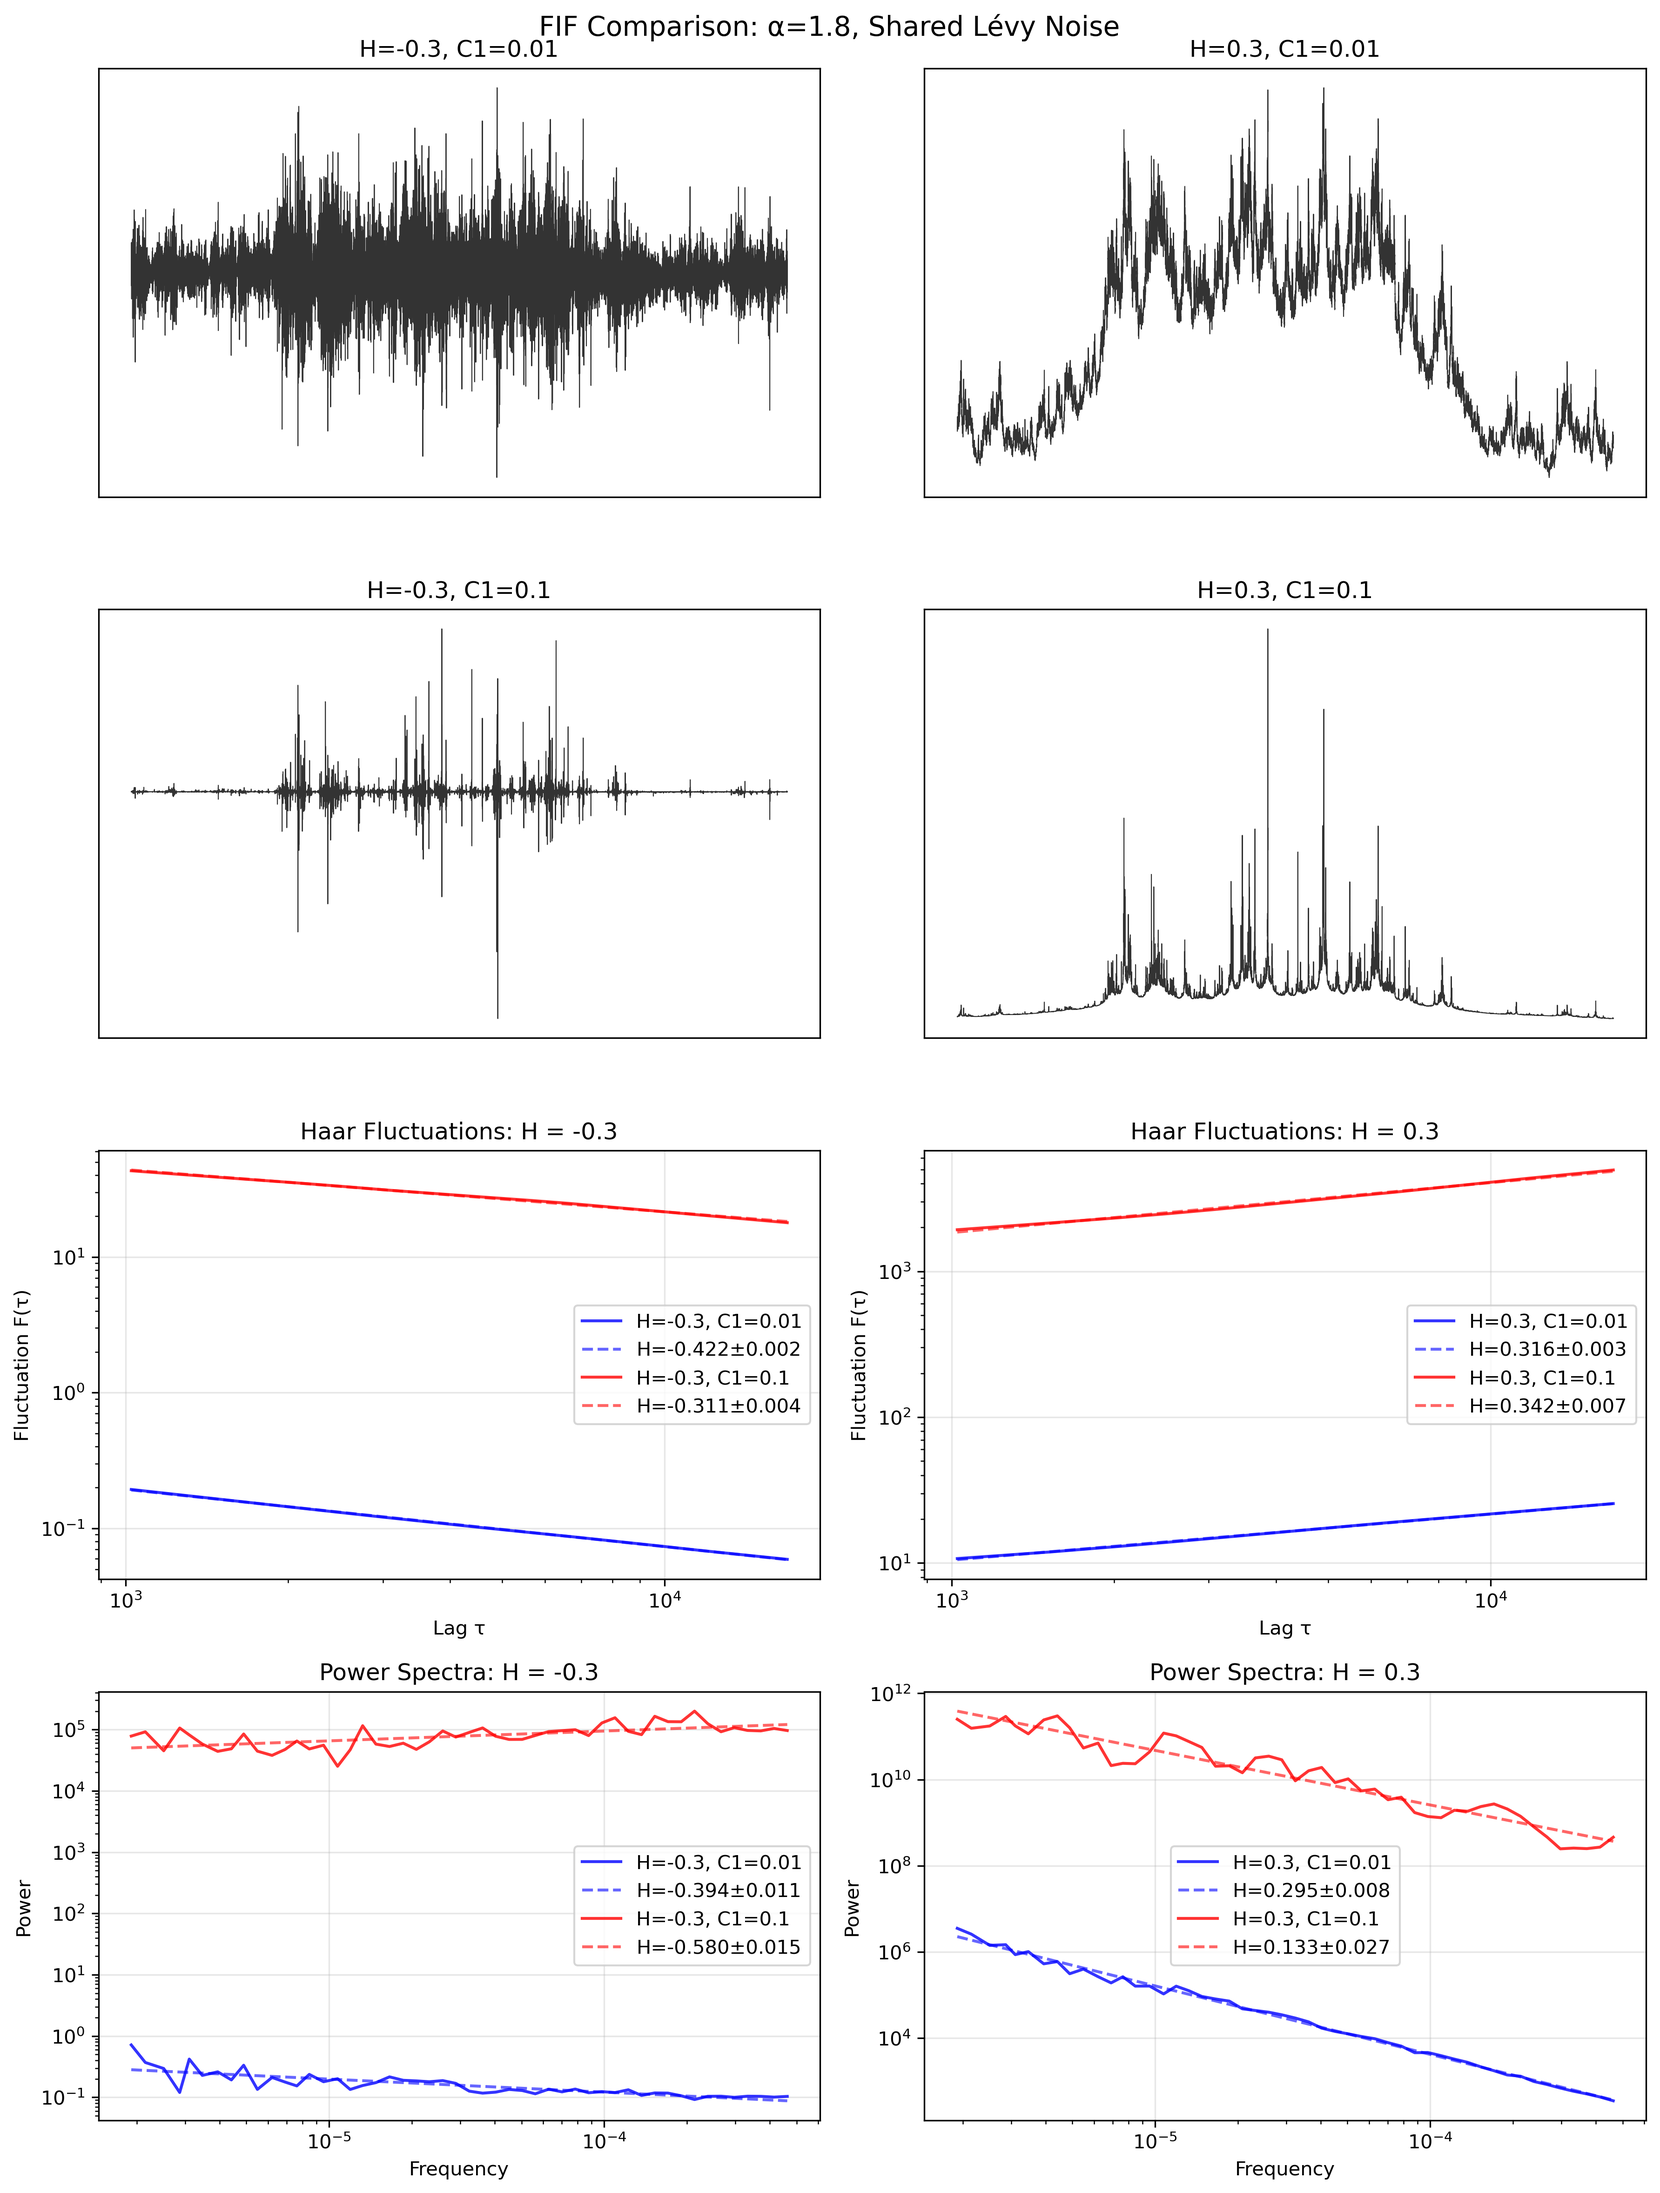
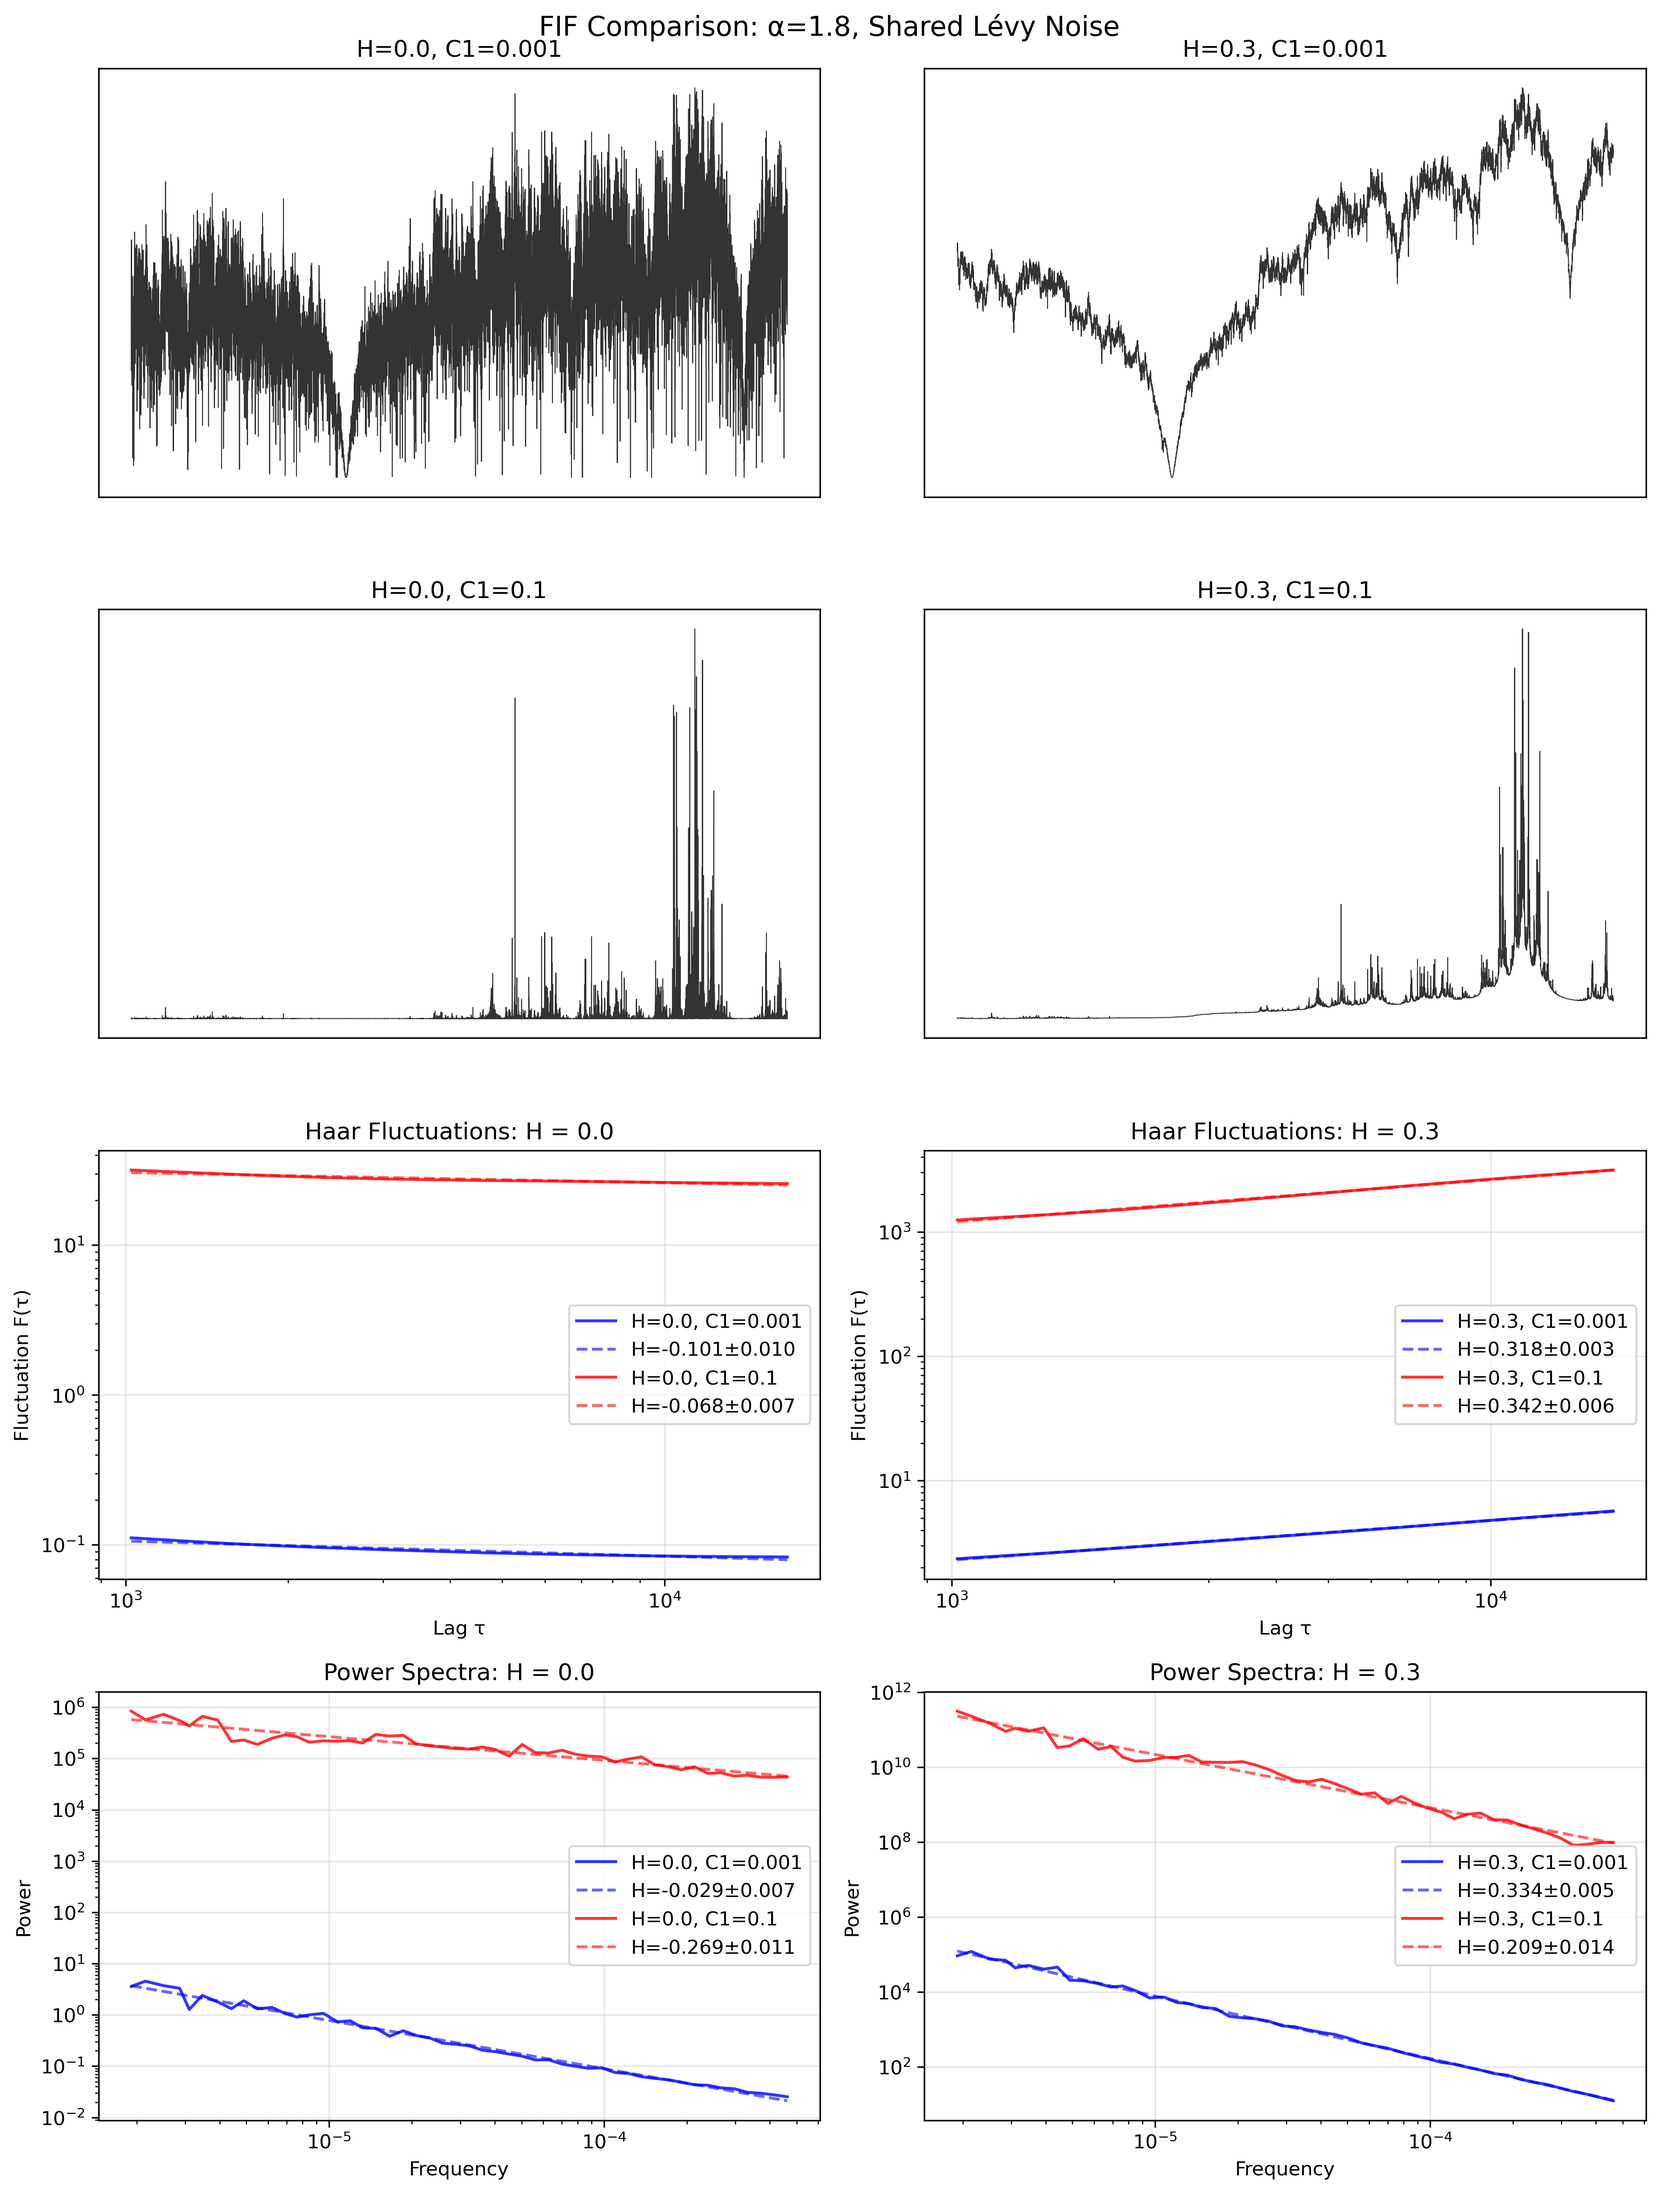
Add 1D fractionally integrated flux (FIF) and update examples
- Implement FIF_1D function for generating multifractal timeseries
- Update FIF comparison demo with improved parameter choices and analysis
- Enhanced README documentation with updated example output
- Version bump to 0.2.0

🤖 Generated with [Claude Code](https://claude.ai/code)

diff --git a/examples/fif_comparison_demo.py b/examples/fif_comparison_demo.py
@@ -26,9 +26,9 @@ def main():
     
     # Create 4 simulations with same noise, different parameters
     params = [
-        (-0.3, 0.01, 'H=-0.3, C1=0.01'),
-        (-0.3, 0.1, 'H=-0.3, C1=0.1'), 
-        (0.3, 0.01, 'H=0.3, C1=0.01'),
+        (0.0, 0.001, 'H=0.0, C1=0.001'),
+        (0.0, 0.1, 'H=0.0, C1=0.1'), 
+        (0.3, 0.001, 'H=0.3, C1=0.001'),
         (0.3, 0.1, 'H=0.3, C1=0.1')
     ]
     
@@ -42,30 +42,30 @@ def main():
     # Create figure with subplots - 4 time series plots + 4 analysis plots
     fig = plt.figure(figsize=(12, 16))
     
-    # Top 2x2: Individual FIF time series plots (H=-0.3 left, H=0.3 right)
-    ax1 = plt.subplot(4, 2, 1)  # H=-0.3, C1=0.01
-    ax2 = plt.subplot(4, 2, 2)  # H=0.3, C1=0.01
-    ax3 = plt.subplot(4, 2, 3)  # H=-0.3, C1=0.1
+    # Top 2x2: Individual FIF time series plots (H=0.0 left, H=0.3 right)
+    ax1 = plt.subplot(4, 2, 1)  # H=0.0, C1=0.001
+    ax2 = plt.subplot(4, 2, 2)  # H=0.3, C1=0.001
+    ax3 = plt.subplot(4, 2, 3)  # H=0.0, C1=0.1
     ax4 = plt.subplot(4, 2, 4)  # H=0.3, C1=0.1
     
     # Plot each simulation individually
     x = np.arange(len(simulations[0][0]))
     
-    # H=-0.3, C1=0.01
+    # H=0.0, C1=0.001
     fif, H, C1, _ = simulations[0]
     ax1.plot(x[::64], fif[::64], 'k-', alpha=0.8, linewidth=0.5)
     ax1.set_title(f'H={H}, C1={C1}')
     ax1.set_xticks([])
     ax1.set_yticks([])
     
-    # H=0.3, C1=0.01
+    # H=0.3, C1=0.001
     fif, H, C1, _ = simulations[2]
     ax2.plot(x[::64], fif[::64], 'k-', alpha=0.8, linewidth=0.5)
     ax2.set_title(f'H={H}, C1={C1}')
     ax2.set_xticks([])
     ax2.set_yticks([])
     
-    # H=-0.3, C1=0.1
+    # H=0.0, C1=0.1
     fif, H, C1, _ = simulations[1]
     ax3.plot(x[::64], fif[::64], 'k-', alpha=0.8, linewidth=0.5)
     ax3.set_title(f'H={H}, C1={C1}')
@@ -80,15 +80,18 @@ def main():
     ax4.set_yticks([])
     
     # Analysis plots - row 2: Haar fluctuations
-    ax5 = plt.subplot(4, 2, 5)  # Haar H=-0.3
+    ax5 = plt.subplot(4, 2, 5)  # Haar H=0.0
     ax6 = plt.subplot(4, 2, 6)  # Haar H=0.3
     
     # Analysis plots - row 3: Spectral
-    ax7 = plt.subplot(4, 2, 7)  # Spectral H=-0.3  
+    ax7 = plt.subplot(4, 2, 7)  # Spectral H=0.0  
     ax8 = plt.subplot(4, 2, 8)  # Spectral H=0.3
     
     # Generate 10 simulations for each parameter combination for analysis
     print("Generating 10 simulations for each parameter combination...")
+
+    params.extend([(-0.3, 0.001, 'H=-0.3, C1=0.001'), (-0.3, 0.1, 'H=-0.3, C1=0.1')])
+
     analysis_sims = {}
     for H, C1, label in params:
         fif_array = []
@@ -98,7 +101,7 @@ def main():
         analysis_sims[(H, C1)] = np.stack(fif_array, axis=0)
         print(f"  Generated 10 sims for {label}")
     
-    # Haar analysis for H=-0.3 cases (averaged over 10 sims)
+    # Haar analysis for H=0.0 cases (averaged over 10 sims)
     print("Computing Haar fluctuations (10 sim average)...")
     for i, (_, H, C1, label) in enumerate([simulations[0], simulations[1]]):
         fif_batch = analysis_sims[(H, C1)]
@@ -109,7 +112,7 @@ def main():
         ax5.loglog(lags * 256, fit, '--', color=color[0], alpha=0.6, 
                   label=f'H={H_est:.3f}±{H_err:.3f}')
     
-    ax5.set_title('Haar Fluctuations: H = -0.3')
+    ax5.set_title('Haar Fluctuations: H = 0.0')
     ax5.set_xlabel('Lag τ')
     ax5.set_ylabel('Fluctuation F(τ)')
     ax5.legend()
@@ -131,7 +134,7 @@ def main():
     ax6.legend()
     ax6.grid(True, alpha=0.3)
     
-    # Spectral analysis for H=-0.3 cases (averaged over 10 sims)
+    # Spectral analysis for H=0.0 cases (averaged over 10 sims)
     print("Computing spectral Hurst estimates (10 sim average)...")
     for i, (_, H, C1, label) in enumerate([simulations[0], simulations[1]]):
         fif_batch = analysis_sims[(H, C1)]
@@ -142,7 +145,7 @@ def main():
         ax7.loglog(freqs / 256, fit, '--', color=color[0], alpha=0.6,
                   label=f'H={H_est:.3f}±{H_err:.3f}')
     
-    ax7.set_title('Power Spectra: H = -0.3')
+    ax7.set_title('Power Spectra: H = 0.0')
     ax7.set_xlabel('Frequency')
     ax7.set_ylabel('Power')
     ax7.legend()
@@ -171,19 +174,20 @@ def main():
     plt.savefig('fif_comparison_demo.png', dpi=300, bbox_inches='tight')
     print("Saved plot as 'fif_comparison_demo.png'")
     
-    # Print summary
+    # Print summary using 10 simulation ensemble
     print("\n" + "="*60)
-    print("Summary of Hurst estimates:")
+    print("Summary of Hurst estimates (10 simulation ensemble):")
     print("="*60)
-    for fif, H_true, C1, label in simulations:
-        H_haar, H_haar_err = scaleinvariance.haar_fluctuation_hurst(fif[::256], max_sep=100)
-        H_spec, H_spec_err = scaleinvariance.spectral_hurst(fif[::256])
-        H_struct, H_struct_err = scaleinvariance.structure_function_hurst(fif[::256], max_sep=100)
+    for H_true, C1, label in params:
+        fif_batch = analysis_sims[(H_true, C1)]
+        H_haar, H_haar_err = scaleinvariance.haar_fluctuation_hurst(fif_batch, axis=1, max_sep=100)
+        H_spec, H_spec_err = scaleinvariance.spectral_hurst(fif_batch, axis=1)
+        H_struct, H_struct_err = scaleinvariance.structure_function_hurst(fif_batch, axis=1, max_sep=100)
         print(f"{label}:")
         print(f"  True H: {H_true:.2f}")
         print(f"  Haar:   {H_haar:.3f} ± {H_haar_err:.3f}")
-        print(f"  Spectral: {H_spec:.3f} ± {H_spec_err:.3f}")
         print(f"  Structure: {H_struct:.3f} ± {H_struct_err:.3f}")
+        print(f"  Spectral: {H_spec:.3f} ± {H_spec_err:.3f}")
         print()
 
 if __name__ == "__main__":

diff --git a/setup.py b/setup.py
@@ -8,7 +8,7 @@ except FileNotFoundError:
 
 setup(
     name="scaleinvariance",
-    version="0.1.0",
+    version="0.2.0",
     author="Thomas DeWitt",
     description="Simulation and analysis of multifractal fields",
     long_description=long_description,

diff --git a/scaleinvariance/__init__.py b/scaleinvariance/__init__.py
@@ -7,7 +7,7 @@ This package provides tools for:
 - Fractional Brownian motion simulation
 """
 
-__version__ = "0.1.0"
+__version__ = "0.2.0"
 __author__ = "Thomas DeWitt"
 
 import torch

diff --git a/examples/README.md b/examples/README.md
@@ -8,7 +8,7 @@ This script demonstrates estimation of the Hurst exponent estimation in intermit
 
 ### What the plot shows:
 
-- **Top 4 panels**: Time series of FIF simulations with different parameter combinations but the same random seed. Values that are unusually large in the nonintermittent case truly "blow up" when $C_1$ is increased.
+- **Top 4 panels**: Time series of FIF simulations with different parameter combinations but the same random seed. This shows the effect of intermittency: values that are unusually large in the nonintermittent case truly "blow up" when $C_1$ is increased.
 
 - **Middle panels**: Haar fluctuation analysis (averaged over 10 realizations)
 
@@ -18,41 +18,53 @@ This script demonstrates estimation of the Hurst exponent estimation in intermit
 
 1. **First-order (Haar fluctuations/structure function) vs second-order (spectral) methods:**
    
-   First-order statistics more accurately estimate $H$ as they are less affected by intermittency. Second-order statistics, such as the spectrum used here, underestimate $H$ unless intermittency corrections are included. In `spectral_hurst`, they are not.
+   First-order statistics more accurately estimate $H$ as they are less affected by intermittency (see output below). Second-order statistics such as the spectrum used here underestimate $H$ unless intermittency corrections are included. In `spectral_hurst`, they are not. This is particularly true for $H=0$ because the multifractal simulations are more accurate in this case. The reason is that there is a single fractional integral for $H=0$ in the FIF model, as opposed to two for $H\ne 0$, and these introduce numerical error.
 
 2. **Structure functions are only valid for $0<H<1$**:
    
-   When $H$ is negative, the structure function saturates and returns $H=0.$
+   When $H$ is negative, the structure function saturates and returns $H=0$ (see below).
 
 Output:
 
 ```
 ============================================================
-Summary of Hurst estimates:
+Summary of Hurst estimates (10 simulation ensemble):
 ============================================================
-H=-0.3, C1=0.01:
-  True H: -0.30
-  Haar:   -0.413 ± 0.008
-  Spectral: -0.495 ± 0.032
-  Structure: 0.014 ± 0.001
+H=0.0, C1=0.001:
+  True H: 0.00
+  Haar:   -0.101 ± 0.010
+  Structure: 0.075 ± 0.001
+  Spectral: -0.029 ± 0.007
 
-H=-0.3, C1=0.1:
-  True H: -0.30
-  Haar:   -0.297 ± 0.008
-  Spectral: -0.571 ± 0.023
-  Structure: 0.039 ± 0.002
+H=0.0, C1=0.1:
+  True H: 0.00
+  Haar:   -0.068 ± 0.007
+  Structure: 0.048 ± 0.002
+  Spectral: -0.269 ± 0.011
 
-H=0.3, C1=0.01:
+H=0.3, C1=0.001:
   True H: 0.30
-  Haar:   0.326 ± 0.002
-  Spectral: 0.223 ± 0.030
-  Structure: 0.348 ± 0.002
+  Haar:   0.318 ± 0.003
+  Structure: 0.343 ± 0.002
+  Spectral: 0.334 ± 0.005
 
 H=0.3, C1=0.1:
   True H: 0.30
-  Haar:   0.337 ± 0.004
-  Spectral: 0.089 ± 0.025
-  Structure: 0.345 ± 0.004
+  Haar:   0.342 ± 0.006
+  Structure: 0.354 ± 0.003
+  Spectral: 0.209 ± 0.014
+
+H=-0.3, C1=0.001:
+  True H: -0.30
+  Haar:   -0.434 ± 0.002
+  Structure: 0.004 ± 0.000
+  Spectral: -0.385 ± 0.008
+
+H=-0.3, C1=0.1:
+  True H: -0.30
+  Haar:   -0.301 ± 0.002
+  Structure: 0.033 ± 0.002
+  Spectral: -0.529 ± 0.014
 ```
 
 ### Usage:
@@ -62,3 +74,9 @@ python fif_comparison_demo.py
 ```
 
 The script saves the comparison plot as `fif_comparison_demo.png` in the same directory.
+
+
+
+## multi_dataset_haar_analysis.py
+
+Work in progress to demonstrate Haar fluctuation analysis using real world data.
